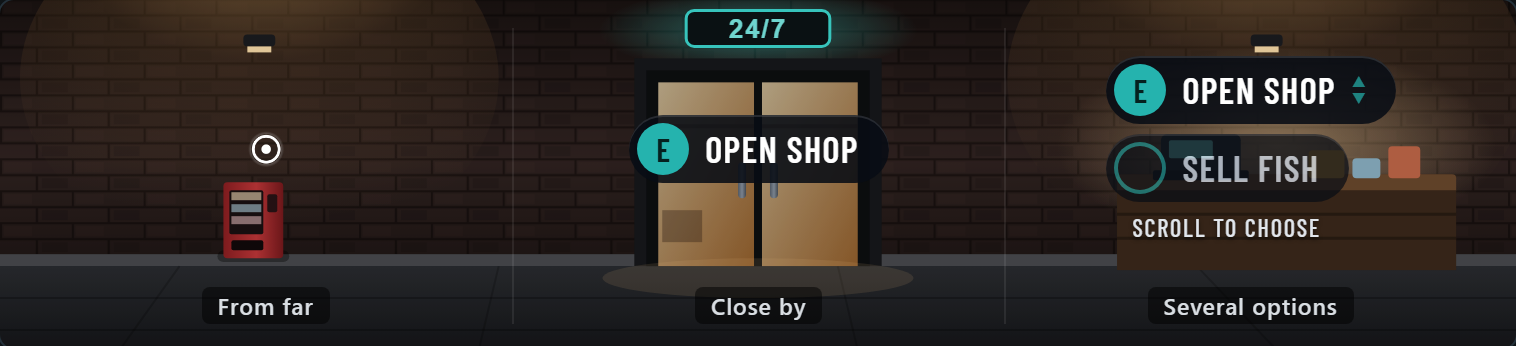
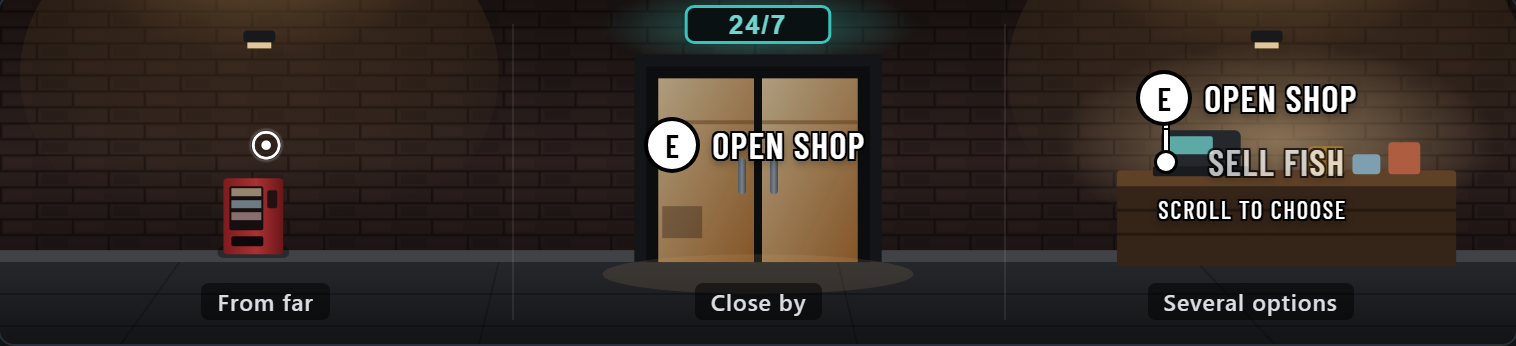
Interact: GTA VI prompt style (default), car options with press E / target, dot size and prompt size

diff --git a/docs/resources/interact/configuration.md b/docs/resources/interact/configuration.md
@@ -25,10 +25,12 @@ Every player gets these (unless admins turn them off). They only change what tha
 | Look | Shape | Circle | The dot's shape. The key badge takes the same shape |
 | Look | Animation | None | None, pulse, spin, breathe, bounce |
 | Look | Colour | White | The dot: white, the key colour, or a colour of your own |
+| Look | Dot size | 1.00 | Size of the dot and the target ring (0.5 to 2) |
 | Look | Outline | On | A thin dark edge so the dot shows on bright walls and in the sky |
 | Look | Dots on target spots | On | Show a dot where target spots are too |
-| Look | Key colour | FwB teal | The key and the badge on cards |
-| Look | Size on screen | 1.00 | Size of the dot and the prompt (0.5 to 2) |
+| Look | Style | GTA VI | **GTA VI**: white text with a black outline and a white round key, no background; a list of options is linked by a line with a dot per option. **Default**: each option on a dark rounded bar. Cards keep their look |
+| Look | Key colour | FwB teal | The key and the badge on cards (Default style) |
+| Look | Prompt size | 1.00 | Size of the key, the text and cards (0.5 to 2) |
 | Look | Aim help | 0.16 | Higher: a spot counts as looked at even when it is not in the middle of the screen |
 | Keys | How you use spots | Server's choice | Press E or Target (hold `ALT`, aim, click). Only shows while admins turn on **Players can choose** |
 | Keys | Use key | E | E, G, H, F, X, Y or Z |
@@ -47,6 +49,8 @@ Needs the ACE `fwb_interact.admin` (see [Installation](./installation#_2-menu-ac
 | General | Players can change their own | On | Off: the menu is admin only and everyone uses the server settings |
 | General | How spots are used | Press E | Press E, or Target: `ox_target` / `qb-target` / `qtarget` when one runs, else Interact's own target (hold `ALT`, aim, click). For every spot of every script, including ox_target / qb-target scripts with Target Replacement on |
 | General | Players can choose | Off | On: every player picks press E or target for themselves on their **Keys** tab, starting on **How spots are used**. Needs **Players can change their own** on |
+| General | Car options with press E | Off | Toggle each door, the hood and the trunk of every car with press E (the options ox_target and qb-target come with), whatever **How spots are used** says |
+| General | Car options with target | On | The same with target (hold `ALT`), even while spots use press E. Not while ox_target or qb-target runs: they bring their own. With Target Replacement on, these take their place |
 | General | Use distance | 1.5 m | How close a player has to be to use an option without its own `distance` |
 | General | Dot range | 3.0 m | How much further than the use distance the dot shows (2 m use distance + 3 m = dot from 5 m), for spots without their own `range` |
 | General | Range on models | 2.0 m | The same for `AddModel` and the `AddGlobal…` exports. Keep it low |
@@ -60,5 +64,7 @@ Needs the ACE `fwb_interact.admin` (see [Installation](./installation#_2-menu-ac
 | Text | List hint | Scroll to choose | Under a list of several options |
 | Developer | Debug | Off | Prints what happens to every spot in F8 and draws target zones |
 | Developer | Test command | Off | Turns on `/fwbinteract_test` (see [Commands](./commands)) |
+
+The two car option switches are apart from **How spots are used**, and both can be on: for example spots on press E and car options on target, or the other way round.
 
 **Server defaults** in the footer fills every server setting with its starting value; press **Save** to use them.

diff --git a/docs/resources/interact/overview.md b/docs/resources/interact/overview.md
@@ -23,11 +23,13 @@ There is **no config file**. Everything is set in game with `/fwb_interact`, sav
 * **Two types, same data** — `draw3d` (our dot and `[E]` prompt) or `target` (`ox_target`, then `qb-target`, then `qtarget`). A spot moves between them live, without being added again.
 * **A dot on everything nearby** — 7 shapes (circle, square, diamond, hexagon, ring, solid, plus), 5 animations, any colour. The key badge takes the same shape.
 * **Look-at prompt** — the spot nearest the middle of the screen shows `[E] Action`. Inside a box or poly zone you don't need to aim.
+* **GTA VI style** — by default the prompt is white text with a black outline and a white round key, no background. The Default style puts each option on a dark rounded bar instead.
+* **Car options** — toggle each door, the hood and the trunk of every car, like ox_target and qb-target. Two switches, apart from how other spots are used: with target (on) and with press E (off).
 * **Several options** — each with its own key (E, G, Z…), or all in one pick list on E, chosen with the mouse wheel or arrow keys. The weapon wheel is blocked while the list shows.
 * **Hint cards** — a title, text, up to 3 detail lines and an icon or image, shown when the player is close.
 * **Everything can be interactive** — spheres, rotated boxes, poly zones, single entities (by handle or netId), vehicle bones, every entity of a model, every vehicle / ped / player / object.
 * **Hidden behind walls** — spots behind a wall show no dot unless a spot turns it off.
-* **Per-player settings** — players choose their own dot shape, colours, size and keys (kept on their PC). Admins can turn this off.
+* **Per-player settings** — players choose their own dot shape, colours, prompt style, dot and prompt size and keys (kept on their PC). Admins can turn this off.
 * **Press E or target** — admins pick it for every spot in `/fwb_interact`, and can let each player pick their own. Spots switch live. Target uses `ox_target` / `qb-target` / `qtarget` when one runs, else Interact's own target: hold `ALT`, aim, click.
 * **Clean up on its own** — when a script stops, all of its spots, cards and its type go with it.
 * **Target Replacement** — delete `ox_target`, `qb-target` or `qtarget`, turn on one `provide` line, and scripts made for them run on Interact without changes. See [Replace Ox/Qb Target](./replace-target).

diff --git a/docs/resources/interact/replace-target.md b/docs/resources/interact/replace-target.md
@@ -102,7 +102,7 @@ With **Players can choose** on, each player finds the same choice at the top of 
 
 All the usual ox_target, qb-target and qtarget exports and option fields: zones, models, entities, globals, bones, `SpawnPed`, jobs, gangs and items. The full list is on [Integrations → What works](./integrations#what-works).
 
-Not carried over: ox_target sub menus (`menuName` / `openMenu`), `offset` and `iconColor`; qb-target `AddComboZone` and its `Get…Data` / `Update…Data` functions. Everything the deleted target added by itself goes with it (ox_target's vehicle door options, the zones and peds in qb-target's own `config.lua`).
+Not carried over: ox_target sub menus (`menuName` / `openMenu`), `offset` and `iconColor`; qb-target `AddComboZone` and its `Get…Data` / `Update…Data` functions. The door, hood and trunk options ox_target and qb-target put on every car are added by Interact instead (**Car options with target** in `/fwb_interact` → General, on by default; **Car options with press E** adds them to press E too). Zones and peds in qb-target's own `config.lua` go with it.
 
 ## Turn it off again
 

diff --git a/docs/resources/interact/integrations.md b/docs/resources/interact/integrations.md
@@ -103,7 +103,8 @@ Option fields: `label`, `icon`, `type` + `event` (`client`, `server`, `command`,
 
 - ox_target sub menus (`menuName` / `openMenu`), `offset` and `iconColor`.
 - qb-target `AddComboZone`, its `Get…Data` / `Update…Data` functions and entity outlines.
-- Everything the deleted target added by itself goes with it: ox_target's built-in vehicle door options, and the zones and peds in qb-target's own `config.lua`. Add those from a script if you still need them.
+- The door, hood and trunk options ox_target and qb-target put on every car are added by Interact instead: **Car options with target** in `/fwb_interact` → General (on by default), and **Car options with press E** (off by default).
+- Zones and peds in qb-target's own `config.lua` go with it. Add those from a script if you still need them.
 - Restarting `fwb_interact` removes the spots those scripts added, just as restarting ox_target does. Restart those scripts too, or the server.
 
 ### Running fwb_interact and cr_interact together

diff --git a/docs/resources/interact/index.md b/docs/resources/interact/index.md
@@ -41,4 +41,4 @@ A script can add a card that explains the spot before the player uses it.
 
 ## Settings
 
-Players can pick their own dot shape, colours, size and keys in `/fwb_interact`. Admins set the defaults for everyone in the same menu. Admins also choose press E or target (hold `ALT`, aim, click) for every spot, and can let each player pick their own.
+Players can pick their own dot shape, colours, prompt style (GTA VI or Default), dot and prompt size and keys in `/fwb_interact`. Admins set the defaults for everyone in the same menu. Admins also choose press E or target (hold `ALT`, aim, click) for every spot, and can let each player pick their own.
